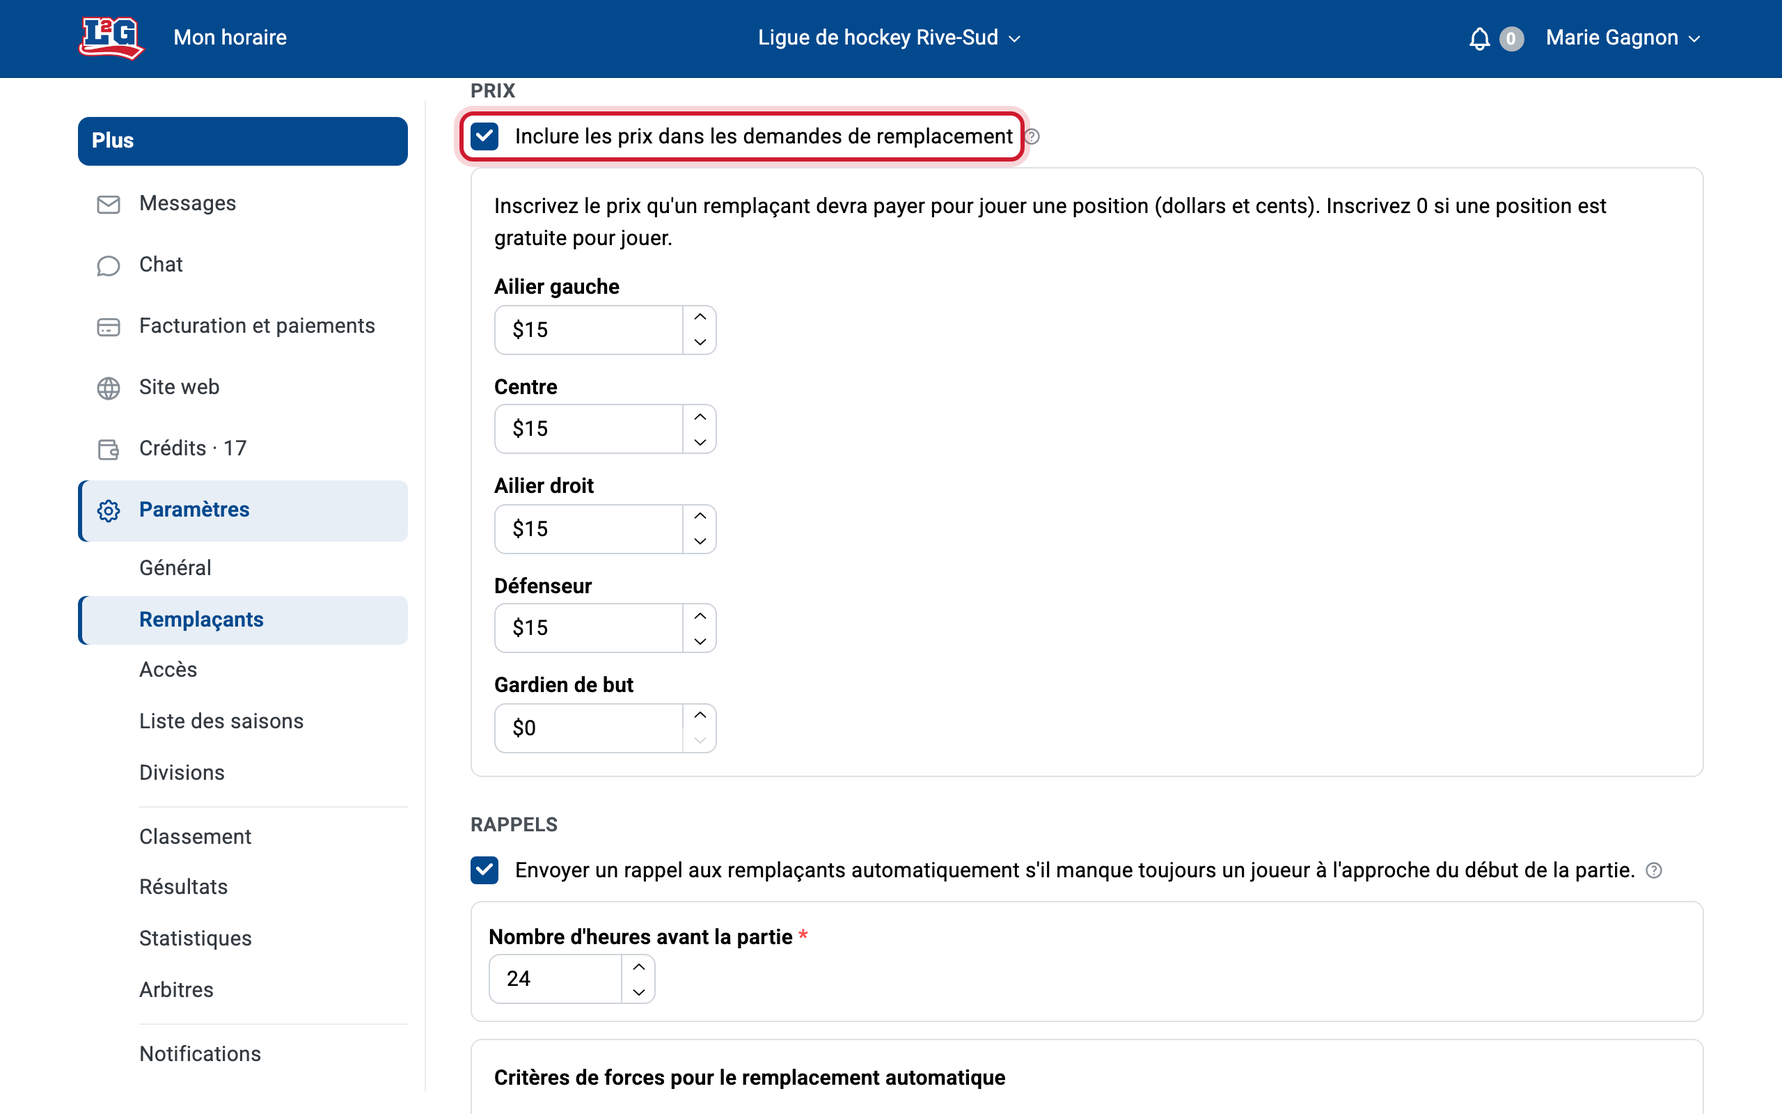
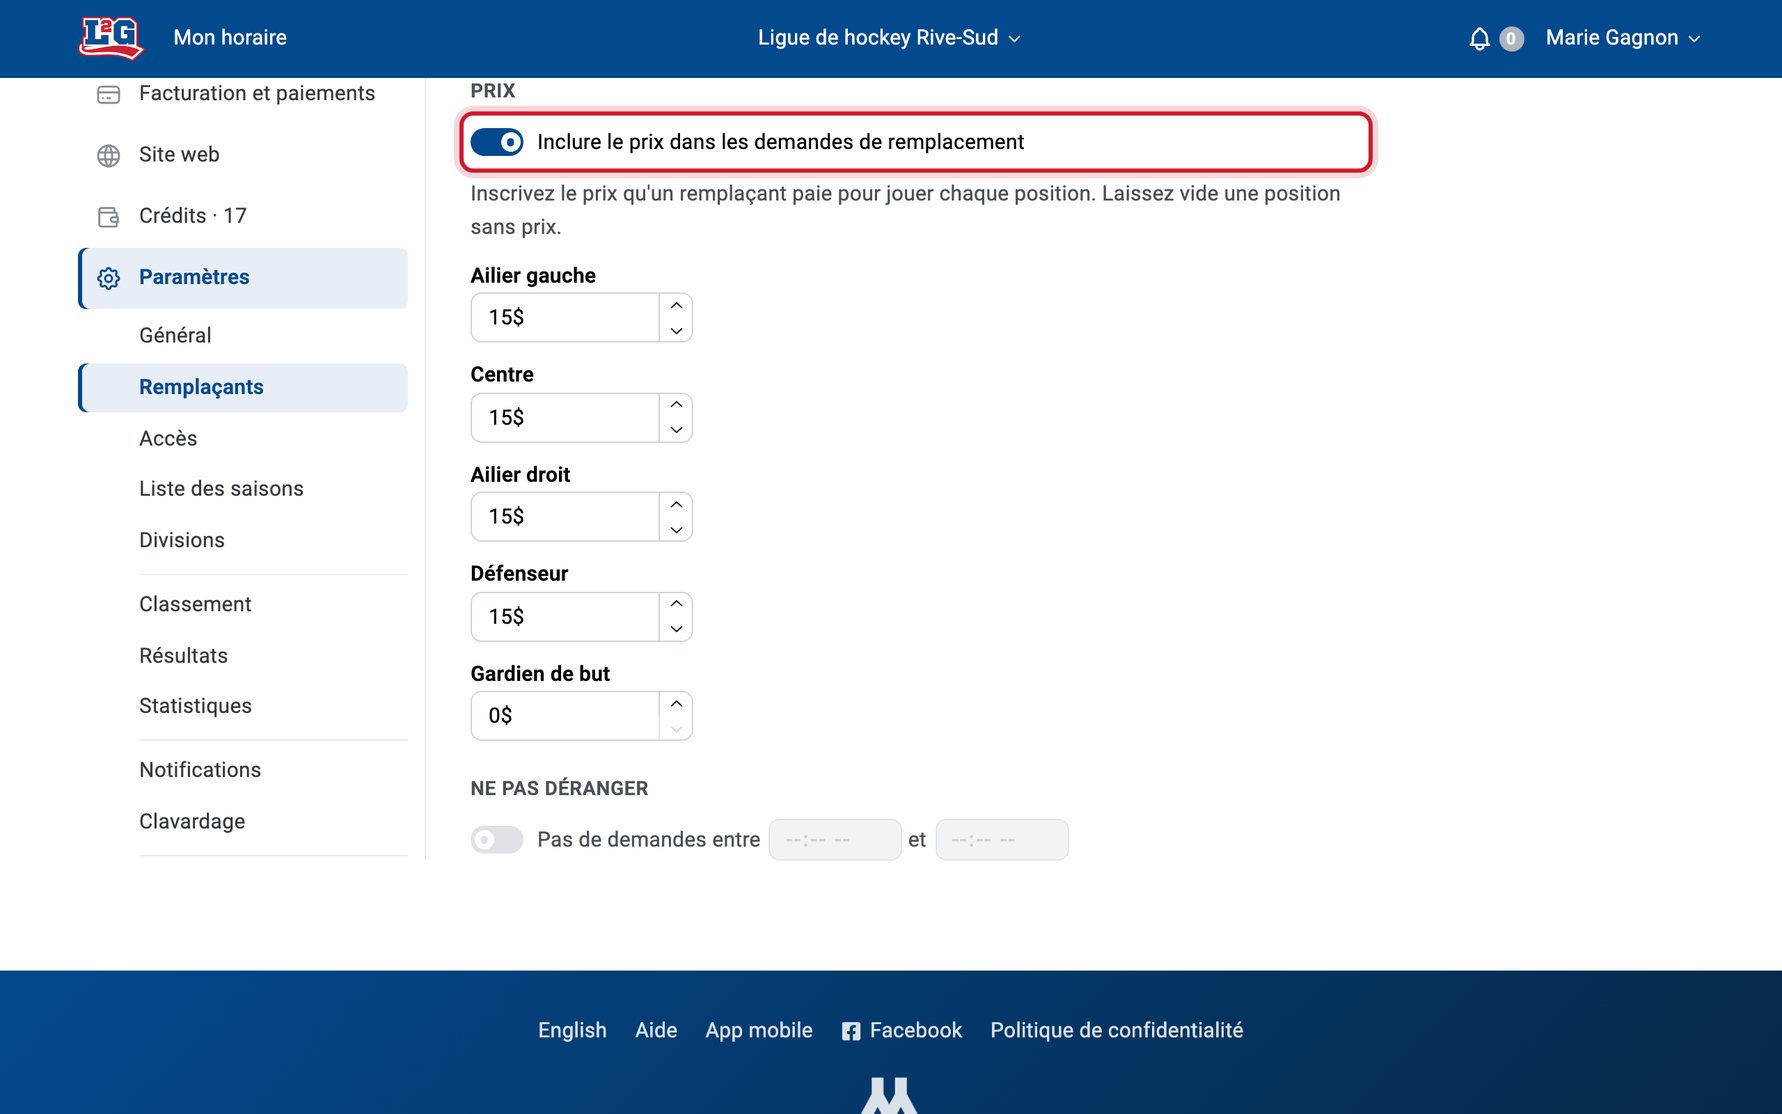
Help: substitute search settings for the Automatic or Manual search and the ranking cone (maligue PR #2318)

diff --git a/_help/fr/options-de-recherche-de-remplacants.md b/_help/fr/options-de-recherche-de-remplacants.md
@@ -11,7 +11,7 @@ redirect_from:
 
 Voici la référence de chaque option qui contrôle la [recherche automatique de remplaçants](/recherche-de-remplacants/). Sauf indication contraire, toutes les options se trouvent dans les **paramètres de votre ligue, onglet Remplaçants**. Les listes de remplaçants elles-mêmes se gèrent ailleurs; consultez [gérer les remplaçants](/gerer-les-remplacants/).
 
-{% include image.html src="help/substitute-settings-options.fr.png" caption="Paramètres de la ligue > Remplaçants : le moment où la recherche démarre (jours avant la partie) et la séquence de recherche étape par étape avec ses délais." %}
+{% include image.html src="help/substitute-settings-options.fr.png" caption="Paramètres de la ligue > Remplaçants : une recherche Automatique ou Manuelle, la limite pour déclarer une absence, le moment où la recherche démarre (jours avant la partie) et la séquence de recherche étape par étape avec ses délais." %}
 
 ## Début de la recherche
 
@@ -19,17 +19,17 @@ Voici la référence de chaque option qui contrôle la [recherche automatique de
 
 **Quand l'ajuster :** raccourcissez le délai si vos remplaçants acceptent puis oublient les parties lointaines; allongez-le si vos parties sont difficiles à combler.
 
-**Réglez-le à 0 pour désactiver complètement la recherche automatique.** Aucune demande n'est envoyée et vous [choisissez les remplaçants manuellement](/gerer-les-remplacants/#choisir-un-remplaçant-manuellement) pour chaque partie.
+**Choisissez Manuelle en haut de l'onglet pour désactiver la recherche automatique.** Aucune demande n'est envoyée automatiquement et vous [choisissez les remplaçants manuellement](/gerer-les-remplacants/#choisir-un-remplaçant-manuellement) pour chaque partie. Une demande que vous envoyez vous-même reste alors ouverte jusqu'à la partie.
 
 **Exemple :** avec une recherche qui débute 7 jours avant les parties, une absence déclarée 3 semaines d'avance reste en attente jusqu'à 7 jours avant la partie, puis les demandes partent.
 
 ## Rappel automatique aux remplaçants
 
-**Ce que ça fait :** envoie un rappel automatique, un nombre configurable de jours avant la partie, aux remplaçants qui ont reçu une demande sans y répondre.
+**Ce que ça fait :** si personne n'a accepté une fois toutes les étapes de la recherche terminées, envoie un rappel, un nombre d'heures choisi avant la partie, aux remplaçants qui ont reçu une demande sans y répondre.
 
-**Quand l'ajuster :** placez-le assez près de la partie pour créer un sentiment d'urgence, tout en laissant à la recherche le temps de s'étendre à d'autres remplaçants ensuite.
+**Quand l'ajuster :** placez-le assez près de la partie pour créer un sentiment d'urgence, tout en laissant d'abord à la recherche le temps de joindre d'autres remplaçants.
 
-**Exemple :** les demandes partent 7 jours avant la partie; le rappel est réglé à 2 jours avant. Un remplaçant qui a ignoré le premier message reçoit une relance 2 jours avant la partie.
+**Exemple :** les demandes partent 7 jours avant la partie; le rappel est réglé à 48 heures avant. Si la place est encore libre à ce moment, un remplaçant qui a ignoré le premier message reçoit une relance 2 jours avant la partie.
 
 ## Nombre de joueurs cible par équipe
 
@@ -47,19 +47,19 @@ Les forces permettent à la recherche de proposer des remplaçants de calibre co
 
 **Choisir l'échelle :** dans l'onglet **Général** des paramètres de votre ligue, choisissez des lettres (« AAA », « AA », « BB », « CC », « A », « B », « C », « D ») ou des nombres (de 1 à 1000; utilisez de 1 à 100 si c'est votre besoin) comme échelle de force. Les forces sont visibles seulement par les capitaines des équipes et les gestionnaires de la ligue. Vous assignez ensuite une force à chaque joueur et remplaçant, pour chacune de ses positions; consultez [gérer les remplaçants](/gerer-les-remplacants/).
 
-**La plage est toujours relative au joueur absent.** Lorsqu'un joueur est absent, seuls les remplaçants dont la force se situe dans la plage configurée autour de la force de ce joueur sont contactés. Trois façons de la configurer :
+**La plage est toujours relative au joueur absent.** Lorsqu'un joueur est absent, seuls les remplaçants dont la force se situe dans la plage configurée autour de la force de ce joueur sont contactés. La section **Force des remplaçants** montre la plage sous la forme d'un cône : la plage de départ à gauche, la plage finale à droite, et en dessous le nombre de minutes pour l'élargir. Au-dessus du cône, les forces jointes s'affichent pour une personne absente donnée en exemple. Trois façons de la configurer :
 
-* **Aucun critère de force :** vous voulez noter les forces pour votre propre référence, mais n'importe quel remplaçant peut remplacer n'importe qui. Étendez la plage au maximum (-1000 à 1000) et assurez-vous que l'option « Étendre les forces progressivement » est **désactivée**.
-* **Stricte :** configurez la plage requise et n'activez pas « Étendre les forces progressivement ». Les remplaçants hors de la plage ne sont jamais contactés pour cette absence.
-* **Flexible :** configurez une **plage initiale**, activez « Étendre les forces progressivement », configurez la **plage finale**, puis entrez le nombre d'heures pour élargir la plage progressivement. La recherche commence par les remplaçants les plus proches, puis accepte graduellement des remplaçants plus éloignés de la force du joueur absent, utile si un alignement complet compte plus qu'une correspondance parfaite.
+* **Aucun critère de force :** vous voulez noter les forces pour votre propre référence, mais n'importe quel remplaçant peut remplacer n'importe qui. Réglez la plage de départ au maximum (1000 points de moins et de plus) et cliquez sur **Ne pas élargir**.
+* **Stricte :** réglez la plage de départ requise et cliquez sur **Ne pas élargir**. Les remplaçants hors de la plage ne sont jamais contactés pour cette absence.
+* **Flexible :** réglez la **plage de départ**, cliquez sur **Élargir avec le temps**, réglez la **plage finale** à la droite du cône, puis entrez le nombre de minutes pour élargir la plage. Les minutes comptent à partir du début de la recherche, excluant les heures « ne pas déranger ». La recherche commence par les remplaçants les plus proches, puis accepte graduellement des remplaçants plus éloignés de la force du joueur absent, utile si un alignement complet compte plus qu'une correspondance parfaite. La plage finale ne peut pas être plus étroite que la plage de départ.
 
-{% include image.html src="help/substitute-settings-rating-range.fr.png" caption="La section des plages de force : la plage initiale, l'option Étendre les forces progressivement activée, le nombre de minutes pour atteindre la plage finale, et la plage finale." %}
+{% include image.html src="help/substitute-settings-rating-range.fr.png" caption="La section Force des remplaçants : la plage de départ à gauche du cône, la plage finale à droite, les minutes pour l'élargir en dessous, et les forces jointes pour une personne absente donnée en exemple." %}
 
 **Exemple (flexible) :** un joueur de force « A » déclare son absence. La plage initiale contacte les remplaçants de force « C » à « BB ». Après 4 heures, la plage s'élargit de « D » à « AA », puis après 8 heures de « D » à « AAA ». La limite inférieure s'arrête à « D » parce que c'est la force la plus faible de l'échelle.
 
-**Plus d'absents que de places à remplir :** avec une échelle de nombres seulement, l'option « S'il y a plus de joueurs absents que de places à remplir, remplacer le joueur dont la force est » détermine quel joueur absent est remplacé : « la plus élevée » ou « la plus basse ». Elle compte seulement quand plus de joueurs sont absents que de places à remplir. La recherche remplit alors seulement la place du joueur choisi, en cherchant des remplaçants autour de sa force; les places des autres joueurs absents restent libres. Par exemple, deux défenseurs de force 600 et 400 sont absents et une seule place doit être remplie : avec « la plus élevée », la recherche contacte des remplaçants autour de 600, et la place du joueur de force 400 reste libre. Avec une échelle de lettres, l'option n'apparaît pas : la recherche remplace toujours le joueur absent le plus fort.
+**Plus d'absents que de places à remplir :** avec une échelle de nombres, dans les ligues qui fixent un [nombre cible de joueurs par position](/equipes-et-parametres/#nombre-cible-de-joueurs-par-position), la phrase « S'il y a plus de personnes absentes à une position que de places à remplir, remplacer d'abord celle dont la force est » détermine quel joueur absent est remplacé : « le plus grand nombre » ou « le plus petit nombre ». Elle compte seulement quand plus de joueurs sont absents que de places à remplir. La recherche remplit alors seulement la place du joueur choisi, en cherchant des remplaçants autour de sa force; les places des autres joueurs absents restent libres. Par exemple, deux défenseurs de force 600 et 400 sont absents et une seule place doit être remplie : avec « le plus grand nombre », la recherche contacte des remplaçants autour de 600, et la place du joueur de force 400 reste libre. Avec une échelle de lettres, l'option n'apparaît pas : la recherche remplace toujours le joueur absent le plus fort.
 
-{% include image.html src="help/substitute-settings-replace-first.fr.png" caption="Avec une échelle de nombres, en haut de la section des plages de force : le choix du joueur absent à remplacer, ici celui dont la force est la plus élevée." %}
+{% include image.html src="help/substitute-settings-replace-first.fr.png" caption="Avec une échelle de nombres, sous le cône : le choix du joueur absent à remplacer d'abord, ici celui dont la force est le plus grand nombre." %}
 
 ## Favoris et ordre de contact
 
@@ -87,11 +87,11 @@ Les forces permettent à la recherche de proposer des remplaçants de calibre co
 
 ## Prix dans les demandes de remplacement
 
-**Ce que ça fait :** lorsque vous cochez **Inclure les prix dans les demandes de remplacement**, le montant que le remplaçant paie pour jouer est inclus dans chaque demande, ainsi que dans le message envoyé à un remplaçant que vous assignez manuellement. Vous entrez un montant par position, et les positions peuvent différer : par exemple 20 $ pour un défenseur ou un attaquant, mais gratuit pour un gardien de but.
+**Ce que ça fait :** lorsque vous activez **Inclure le prix dans les demandes de remplacement**, le montant que le remplaçant paie pour jouer est inclus dans chaque demande, ainsi que dans le message envoyé à un remplaçant que vous assignez manuellement. Vous entrez un montant par position, et les positions peuvent différer : par exemple 20 $ pour un défenseur ou un attaquant, mais gratuit pour un gardien de but. Laissez vide une position sans prix.
 
 **Quand l'ajuster :** activez l'option pour que les remplaçants se présentent en sachant ce qu'ils doivent. Pour percevoir le montant en ligne plutôt qu'en argent comptant, consultez [les paiements en ligne](/configurer-les-paiements-en-ligne/#facturer-les-remplaçants-par-partie).
 
-{% include image.html src="help/substitute-settings-prices.fr.png" caption="Inclure les prix dans les demandes de remplacement : une fois l'option cochée, chaque position a son propre champ de prix." %}
+{% include image.html src="help/substitute-settings-prices.fr.png" caption="Inclure le prix dans les demandes de remplacement : une fois l'option activée, chaque position a son propre champ de prix." %}
 
 ## Correspondance des positions
 

diff --git a/_help/en/substitute-search-settings.md b/_help/en/substitute-search-settings.md
@@ -11,7 +11,7 @@ redirect_from:
 
 This is the reference for every option that controls the [automatic substitute search](/substitutes-overview/). Unless noted otherwise, all options live in your **league settings, Substitutes tab**. Your substitute lists themselves are managed elsewhere. See [managing substitutes](/managing-substitutes/).
 
-{% include image.html src="help/substitute-settings-options.en.png" caption="League settings > Substitutes: when the search starts (days before the game) and the step-by-step search sequence with its wait times." %}
+{% include image.html src="help/substitute-settings-options.en.png" caption="League settings > Substitutes: an Automatic or Manual search, the absence cutoff, when the search starts (days before the game) and the step-by-step search sequence with its wait times." %}
 
 ## When the search starts
 
@@ -19,17 +19,17 @@ This is the reference for every option that controls the [automatic substitute s
 
 **When to change it:** shorten it if substitutes accept then forget about far-away games; lengthen it if your games are hard to fill.
 
-**Set it to 0 to disable the automatic search entirely.** No requests are sent and you [pick substitutes manually](/managing-substitutes/#picking-a-substitute-manually) for each game.
+**Choose Manual at the top of the tab to turn off the automatic search.** No requests are sent automatically and you [pick substitutes manually](/managing-substitutes/#picking-a-substitute-manually) for each game. A request you send by hand then stays open until the game.
 
 **Example:** with the search set to start 7 days before games, an absence declared 3 weeks ahead sits quietly until 7 days before the game, then requests go out.
 
 ## Automatic reminder for substitutes
 
-**What it does:** sends an automatic reminder, a configurable number of days before the game, to substitutes who received a request but have not answered.
+**What it does:** if no one has accepted once every step of the search is done, sends one reminder, a set number of hours before the game, to the substitutes who received a request but have not answered.
 
-**When to change it:** place it close enough to the game to create urgency, but leave the search time to widen to other substitutes afterwards.
+**When to change it:** place it close enough to the game to create urgency, but leave the search time to reach other substitutes first.
 
-**Example:** requests go out 7 days before the game; the reminder is set to 2 days before. A substitute who ignored the first message gets one nudge 2 days out.
+**Example:** requests go out 7 days before the game; the reminder is set to 48 hours before. If the spot is still open by then, a substitute who ignored the first message gets one nudge 2 days out.
 
 ## Target players per team
 
@@ -47,19 +47,19 @@ Ratings let the search propose substitutes of comparable caliber to the absent p
 
 **Choosing the scale:** in the **General tab** of your league settings, choose letters ("AAA", "AA", "BB", "CC", "A", "B", "C", "D") or numbers (1 to 1000; use 1 to 100 if that suits your needs) as your rating scale. Ratings are visible only to team captains and league managers. You then assign a rating to each player and substitute, per position. See [managing substitutes](/managing-substitutes/).
 
-**The range is always relative to the absent player.** When a player is absent, only substitutes whose rating falls within the configured range around that player's rating are contacted. Three ways to configure it:
+**The range is always relative to the absent player.** When a player is absent, only substitutes whose rating falls within the configured range around that player's rating are contacted. The **Substitute ranking** section shows the range as a cone: the starting range on the left, the final range on the right, and the minutes it takes to widen under it. Above the cone, the rankings it reaches are shown for an example absent player. Three ways to configure it:
 
-* **No rating criteria:** you want ratings for your own reference, but any substitute may replace anyone. Set the range to its maximum (-1000 to 1000) and turn "Extend skill range gradually" **off**.
-* **Strict:** set the range you require and leave "Extend skill range gradually" **off**. Substitutes outside the range are never contacted for that absence.
-* **Flexible:** set an **initial range**, turn "Extend skill range gradually" **on**, set the **final range**, and enter the number of hours over which the range widens. The search starts with close matches and gradually accepts substitutes further from the absent player's rating, useful when a full lineup matters more than a perfect match.
+* **No rating criteria:** you want ratings for your own reference, but any substitute may replace anyone. Set the starting range to its maximum (1000 points below and above) and click **Don't widen**.
+* **Strict:** set the starting range you require and click **Don't widen**. Substitutes outside the range are never contacted for that absence.
+* **Flexible:** set the **starting range**, click **Widen over time**, set the **final range** at the right end of the cone, and enter the number of minutes over which the range widens. The minutes count from the start of the search, excluding the do-not-disturb hours. The search starts with close matches and gradually accepts substitutes further from the absent player's rating, useful when a full lineup matters more than a perfect match. The final range cannot be narrower than the starting range.
 
-{% include image.html src="help/substitute-settings-rating-range.en.png" caption="The skill-range section: the initial range, Extend skill range gradually enabled, the number of minutes to reach the final range, and the final range." %}
+{% include image.html src="help/substitute-settings-rating-range.en.png" caption="The Substitute ranking section: the starting range on the left of the cone, the final range on the right, the minutes to widen under it, and the rankings it reaches for an example absent player." %}
 
 **Example (flexible):** a player rated "A" declares an absence. The initial range contacts substitutes rated "BB" to "C". After 4 hours the range widens to "AA" through "D", and after 8 hours to "AAA" through "D". The lower bound stops at "D" because it is the lowest rating on the scale.
 
-**More players absent than spots to fill:** on a number scale only, the setting "When more players are absent than spots to fill, replace the player whose ranking is" decides which absent player gets replaced: "the highest" or "the lowest". It only matters when more players are absent than there are spots to fill. The search then fills only the chosen player's spot, looking for substitutes around that player's rating; the other absent players' spots stay open. For example, two defensemen rated 600 and 400 are absent and only one spot needs filling: with "the highest", the search contacts substitutes around 600, and the spot of the player rated 400 stays open. On a letter scale the setting does not appear: the search always replaces the highest-rated absent player.
+**More players absent than spots to fill:** on a number scale, in leagues that set a [target number of players per position](/teams-and-team-settings/#target-number-of-players-per-position), the sentence "When more players at one position are absent than spots to fill, replace first the one whose ranking is" decides which absent player gets replaced: "the highest number" or "the lowest number". It only matters when more players are absent than there are spots to fill. The search then fills only the chosen player's spot, looking for substitutes around that player's rating; the other absent players' spots stay open. For example, two defensemen rated 600 and 400 are absent and only one spot needs filling: with "the highest number", the search contacts substitutes around 600, and the spot of the player rated 400 stays open. On a letter scale the setting does not appear: the search always replaces the highest-rated absent player.
 
-{% include image.html src="help/substitute-settings-replace-first.en.png" caption="On a number scale, at the top of the skill-range section: which absent player to replace, here the one with the highest ranking." %}
+{% include image.html src="help/substitute-settings-replace-first.en.png" caption="On a number scale, under the cone: which absent player to replace first, here the one with the highest number." %}
 
 ## Favorites and contact order
 
@@ -87,11 +87,11 @@ Ratings let the search propose substitutes of comparable caliber to the absent p
 
 ## Prices in substitution requests
 
-**What it does:** when you check **Include prices in substitution requests**, the amount a substitute pays to play is included in every request, and in the message sent to a substitute you assign manually. You enter an amount per position, and positions can differ: for example $20 for a defender or a forward, but free for a goalkeeper.
+**What it does:** when you turn on **Include the price in substitution requests**, the amount a substitute pays to play is included in every request, and in the message sent to a substitute you assign manually. You enter an amount per position, and positions can differ: for example $20 for a defender or a forward, but free for a goalkeeper. Leave a position blank if it has no price.
 
 **When to change it:** turn it on so substitutes show up knowing what they owe. To collect the amount online rather than in cash, see [online payments](/online-payments-setup/#charging-substitutes-per-game).
 
-{% include image.html src="help/substitute-settings-prices.en.png" caption="Include price in substitution requests: with the option checked, each position gets its own price field." %}
+{% include image.html src="help/substitute-settings-prices.en.png" caption="Include the price in substitution requests: when it is on, each position gets its own price field." %}
 
 ## Position matching
 
